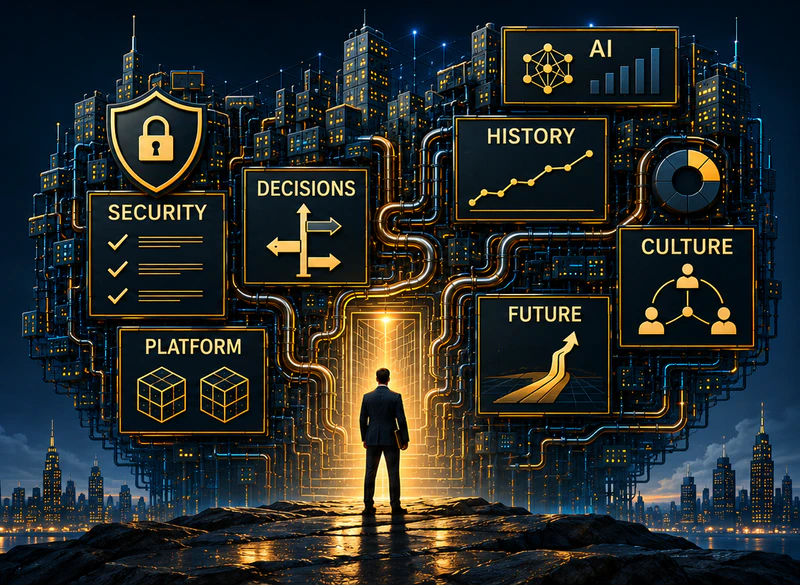
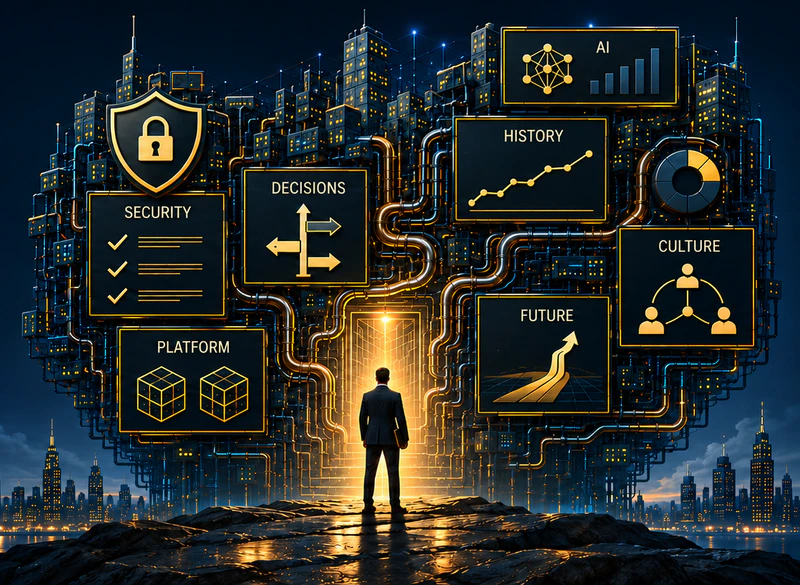
Reduce hero panel labels to match the book cover

diff --git a/index.html b/index.html
@@ -70,7 +70,7 @@
     <main id="main-content">
 
       <section class="threshold" aria-labelledby="book-title">
-        <picture class="threshold-art"><source media="(max-width: 680px)" srcset="assets/city-portal-mobile.webp"><img src="assets/city-portal.webp" width="1922" height="818" alt="" fetchpriority="high"></picture>
+        <picture class="threshold-art"><source media="(max-width: 680px)" srcset="assets/city-portal-mobile.webp?v=2"><img src="assets/city-portal.webp?v=2" width="1922" height="818" alt="" fetchpriority="high"></picture>
         <div class="shell threshold-inner">
           <p class="threshold-line">Technology changes.<br><strong>People adapt.</strong></p>
           <h1 id="book-title"><img src="assets/book-wordmark.webp" width="1185" height="192" alt="5,000 Days"></h1>
